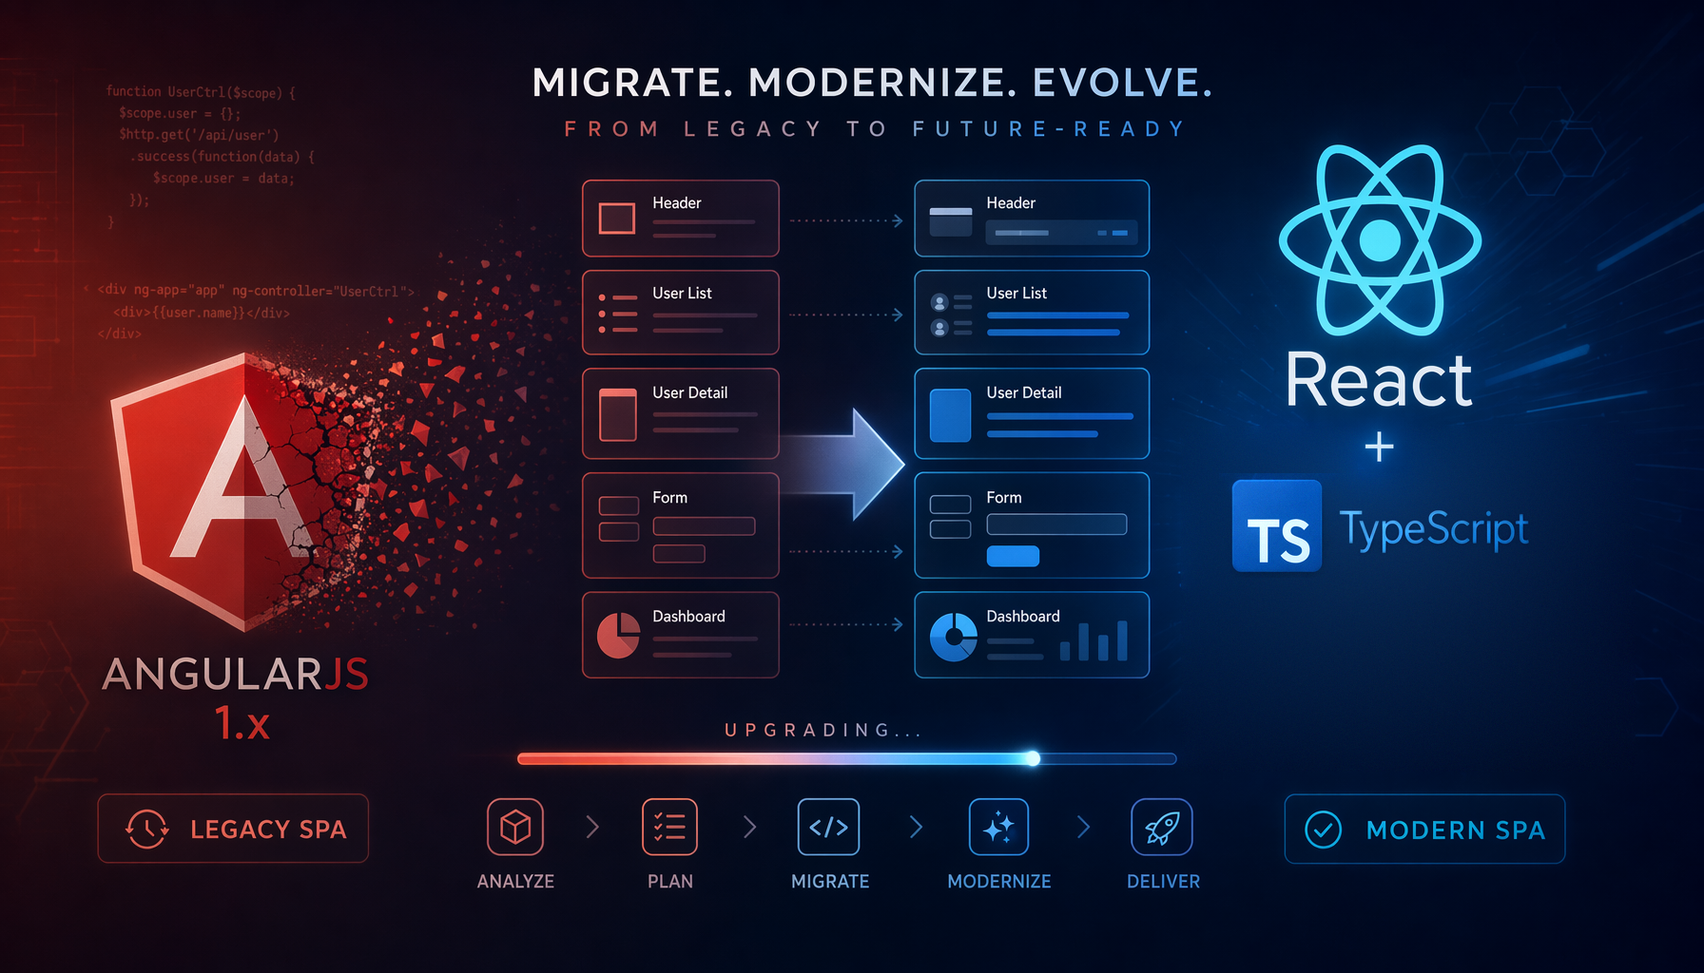
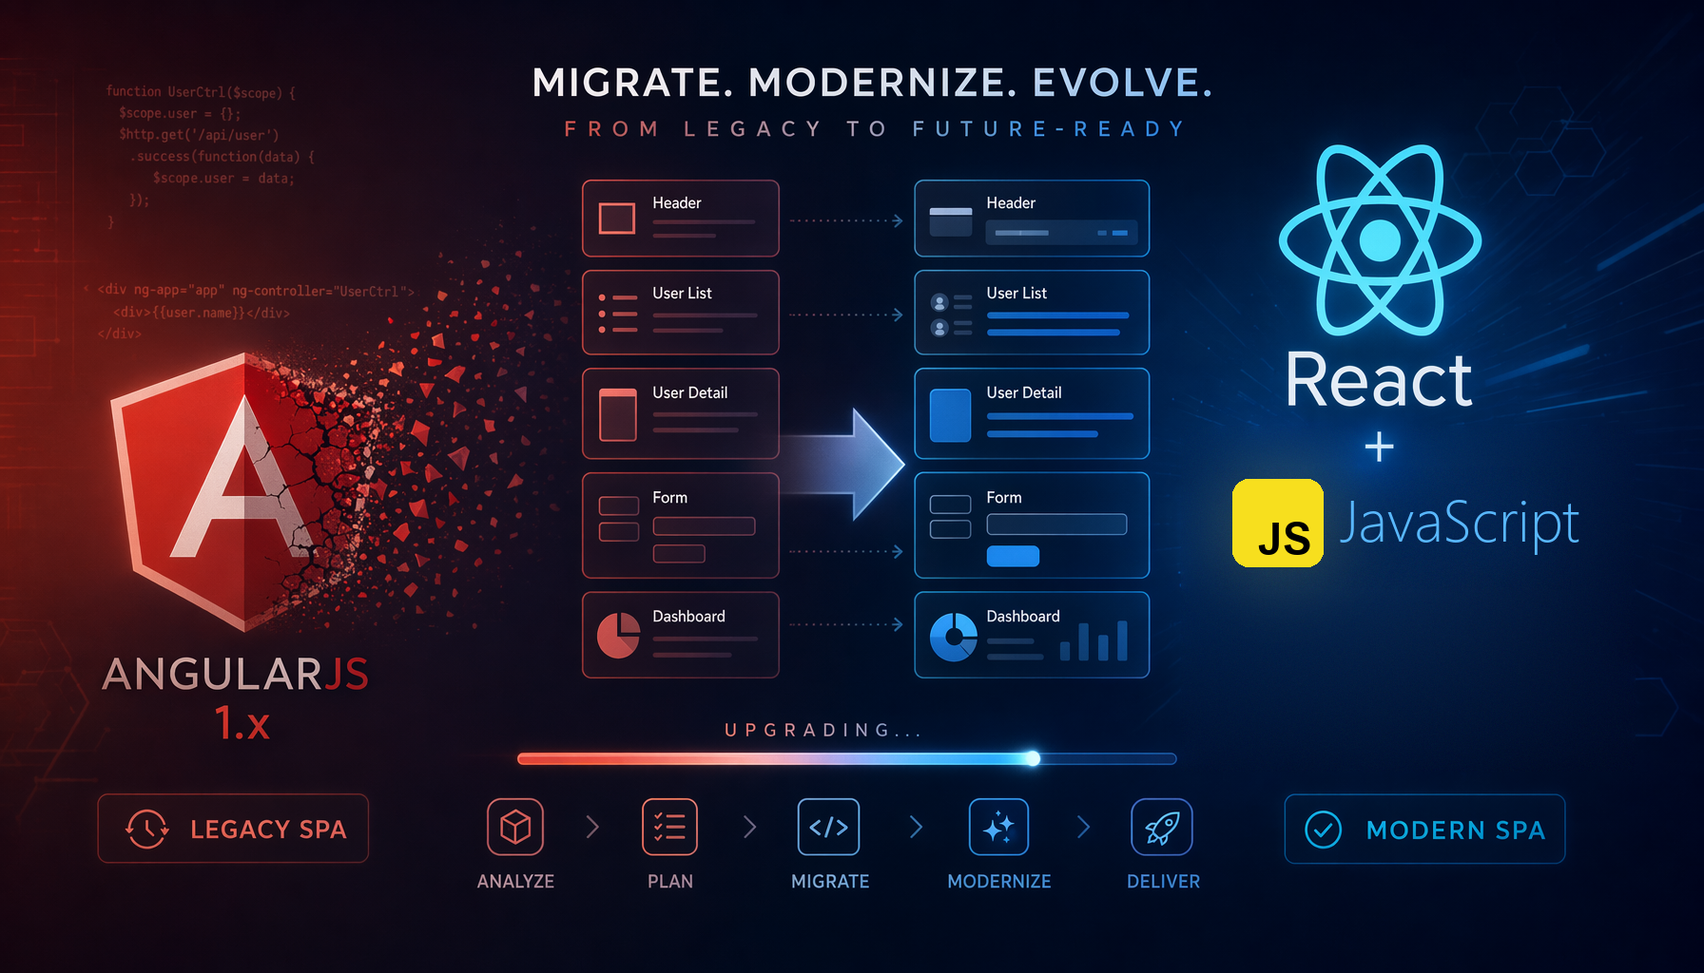
[docs] Target JavaScript, not TypeScript; close the step 04 Karma gate
The hackathon target is React 19 + JavaScript. Swapped every .tsx/.ts for
.jsx/.js across the delivery steps, replaced tsconfig strict-mode with an
ESLint flat config and jsconfig, and reworked the two places where the
guidance only made sense with a type layer:

- generated OpenAPI types become runtime response validators, because with
  no type layer the API client is the only place a renamed field is caught
- the 'strict mode theatre' pitfall becomes 'trusting the API response
  shape', which the legacy app already demonstrates - room.id absent and
  pricePerNight never sent, both surfacing as undefined rather than errors

assets/migrate-modernize-evolve.png: TypeScript mark replaced with the
JavaScript one. Background rebuilt by harmonic inpainting so the gradient
carries through seamlessly.

Step 04: the Karma gate box is closed by ADR-004, and the outcome now
records the accurate finding - the missing test was inverted, not deleted.
should load popular routes on init became should not offer popular routes.

ADR-004 is taken, so path selection onward shifts by one: 004 to 005 for
path selection, 005-006 to 006-007 for assessment, 007-012 to 008-013 for
the stack decisions.

Copilot-Session: e491a7c3-fbc8-4233-8029-82d982e518df

Changed region(s): [[0.7188, 0.4688, 0.9375, 0.5938]]

diff --git a/docs/lab/08-deliver-inc0-shell.md b/docs/lab/08-deliver-inc0-shell.md
@@ -7,7 +7,7 @@
 
 ## 🎯 Goal
 
-Stand up React 19 + TypeScript + Vite **alongside** the AngularJS app, behind a single entry
+Stand up React 19 + JavaScript + Vite **alongside** the AngularJS app, behind a single entry
 point. Migrate **nothing**.
 
 This is the walking skeleton. Its only job is to prove the strangler fig works before you bet a
@@ -109,29 +109,30 @@ something tidier is a one-word edit that silently breaks all three.
 
 ```
 src/                                ← or wherever tech-stack.md put it
-├── main.tsx                        ← createRoot (React 19), not ReactDOM.render
+├── main.jsx                        ← createRoot (React 19), not ReactDOM.render
 ├── routes/
-│   ├── __root.tsx
-│   ├── login.tsx
-│   ├── dashboard.tsx
-│   ├── flights.tsx                 ← placeholder
-│   ├── hotels.tsx                  ← placeholder
-│   ├── itinerary.tsx               ← placeholder
-│   ├── travel-request.tsx          ← placeholder
-│   └── expenses.tsx                ← placeholder
+│   ├── __root.jsx
+│   ├── login.jsx
+│   ├── dashboard.jsx
+│   ├── flights.jsx                 ← placeholder
+│   ├── hotels.jsx                  ← placeholder
+│   ├── itinerary.jsx               ← placeholder
+│   ├── travel-request.jsx          ← placeholder
+│   └── expenses.jsx                ← placeholder
 ├── lib/
-│   ├── api-client.ts               ← fetch wrapper, VITE_API_URL, Bearer token
-│   └── query-client.ts
+│   ├── api-client.js               ← fetch wrapper, VITE_API_URL, Bearer token
+│   └── query-client.js
 ├── stores/
-│   ├── auth-store.ts               ← replaces auth.service.js + auth:login/auth:logout
-│   └── notification-store.ts       ← replaces notification:add
-└── types/
-    └── api.ts                      ← generated from specs/contracts/api/*.yaml
+│   ├── auth-store.js               ← replaces auth.service.js + auth:login/auth:logout
+│   └── notification-store.js       ← replaces notification:add
+└── contracts/
+    └── api-schemas.js              ← response validators from specs/contracts/api/*.yaml
 
-vite.config.ts
-tsconfig.json                       ← strict: true
-vitest.config.ts
-playwright.config.ts
+vite.config.js
+jsconfig.json                       ← path aliases, editor IntelliSense
+eslint.config.js                    ← flat config
+vitest.config.js
+playwright.config.js
 .env.example                        ← VITE_API_URL=http://localhost:3000/api
 package.json                        ← new scripts ADDED, legacy scripts UNTOUCHED
 ```
@@ -149,7 +150,7 @@ package.json                        ← new scripts ADDED, legacy scripts UNTOUC
 
 ### The two mappings that matter
 
-**`auth.service.js` → `auth-store.ts`.** The behaviour must be preserved exactly, because the
+**`auth.service.js` → `auth-store.js`.** The behaviour must be preserved exactly, because the
 `@existing-behavior` scenarios assert on it:
 
 | Legacy | Target |
@@ -163,7 +164,7 @@ package.json                        ← new scripts ADDED, legacy scripts UNTOUC
 > Keep the `authToken` key. Changing it is a one-character edit that invalidates every Playwright
 > storage-state fixture you built in step 04.
 
-**`notification:add` → `notification-store.ts`.** Handled globally at `app/app.js:44` today;
+**`notification:add` → `notification-store.js`.** Handled globally at `app/app.js:44` today;
 published by every controller. In React it is a store with an `add(message, type)` action and a
 toast component subscribed to it.
 
@@ -180,7 +181,8 @@ toast component subscribed to it.
 > 3. The `package.json` diff — additions only?
 > 4. Output of: Vite build, Vitest, `npm test` (Karma), full Playwright `@existing-behavior`
 > 5. Whether it used React 19 APIs or fell back to React 18 patterns
-> 6. Whether `tsconfig.json` really has `strict: true` and whether any `any` slipped in
+> 6. Whether ESLint runs clean, and whether the API client validates the response shape or just
+>    trusts it — with no type layer, that boundary is the only place a renamed field gets caught
 > 7. Anything it wanted to delete and had to be stopped from deleting
 
 ---
@@ -192,7 +194,7 @@ toast component subscribed to it.
 - [ ] `npm start` still serves the legacy app at :8080 and the mock API at :3000
 - [ ] All `@existing-behavior` scenarios pass, unchanged
 - [ ] `npm test` (Karma) still green from step 04
-- [ ] `tsconfig.json` has `strict: true`; `grep -r ': any' src/` returns nothing
+- [ ] `npx eslint src/` returns clean — no disabled rules smuggled in via `/* eslint-disable */`
 - [ ] No hardcoded `http://localhost:3000` anywhere in `src/` — it comes from
       `import.meta.env.VITE_API_URL`
 - [ ] `.env.example` is committed; a real `.env` is **not**
@@ -233,10 +235,12 @@ research, you will find out here.
 </details>
 
 <details>
-<summary><b><code>strict: true</code> with escape hatches</b></summary>
+<summary><b>Trusting the API response shape</b></summary>
 
-`strict: true` plus `// @ts-expect-error` scattered around, or `any` renamed to `unknown` and
-immediately cast, is not strict mode — it is strict mode theatre. Grep the diff.
+There is no type layer to catch a renamed or missing field, so the API client is the only place
+that can. The legacy app already shows what happens without it: `room.id` does not exist in the
+mock fixture, and `pricePerNight` is never sent — both surface as `undefined` in the UI rather
+than as an error. Validate at the boundary, or you inherit the same failure mode in React.
 </details>
 
 <details>

diff --git a/docs/lab/09-deliver-inc1-flight-search.md b/docs/lab/09-deliver-inc1-flight-search.md
@@ -61,8 +61,8 @@ The spec for this increment is specs/features/flight-search.feature. Every
 done. I am not going to restate the behaviour here — if the baseline is missing
 something, that is a bug in step A1 and I want to find it now.
 
-What must be gone: jQuery, jQuery UI, Moment.js, Lodash, Restangular, $rootScope,
-and any `any`. The datepicker becomes a native date input, the scroll animation
+What must be gone: jQuery, jQuery UI, Moment.js, Lodash, Restangular, and $rootScope.
+The datepicker becomes a native date input, the scroll animation
 becomes scrollIntoView, currency becomes Intl.NumberFormat, dates go through
 date-fns with an explicit parse format, and data fetching goes through the query
 hooks from increment 0.
@@ -109,16 +109,16 @@ not touch.
 
 ```
 src/
-├── routes/flights.tsx                      ← real route now, not a placeholder
+├── routes/flights.jsx                      ← real route now, not a placeholder
 └── features/flight-search/
-    ├── FlightSearchPage.tsx
-    ├── SearchForm.tsx                      ← replaces the searchParams block
-    ├── FilterPanel.tsx                     ← replaces filters + deep watch
-    ├── ResultsTable.tsx                    ← replaces the ng-repeat + sort
-    ├── FlightDetails.tsx                   ← scrollIntoView target
-    ├── use-flight-search.ts                ← TanStack Query hook
-    ├── filters.ts                          ← pure functions, unit-testable
-    └── *.test.tsx / *.test.ts
+    ├── FlightSearchPage.jsx
+    ├── SearchForm.jsx                      ← replaces the searchParams block
+    ├── FilterPanel.jsx                     ← replaces filters + deep watch
+    ├── ResultsTable.jsx                    ← replaces the ng-repeat + sort
+    ├── FlightDetails.jsx                   ← scrollIntoView target
+    ├── use-flight-search.js                ← TanStack Query hook
+    ├── filters.js                          ← pure functions, unit-testable
+    └── *.test.jsx / *.test.js
 
 specs/
 ├── features/flight-search.feature          ← delta applied, still tagged
@@ -134,8 +134,8 @@ Nothing here is a 1:1 port. Most of the legacy pieces stop existing as pieces:
 
 | Legacy | Where it goes | Note |
 |--------|---------------|------|
-| `flight-search.controller.js` | split across components + `filters.ts` | 258 lines of controller become several small units |
-| `flight-search.service.js` | `use-flight-search.ts` | Restangular → TanStack Query |
+| `flight-search.controller.js` | split across components + `filters.js` | 258 lines of controller become several small units |
+| `flight-search.service.js` | `use-flight-search.js` | Restangular → TanStack Query |
 | `flight-search.template.html` | JSX across the components | |
 | `date-picker.directive.js` | **dissolved** | native `<input type="date">` |
 | `currency.filter.js` | **dissolved** | `Intl.NumberFormat` |
@@ -192,9 +192,9 @@ digest cycle in React, badly.
 > you will get four more times. Be harder on this PR than on any other.
 
 - [ ] All `@existing-behavior` scenarios pass — for **every** module, not just flights
-- [ ] The only modified scenario is the date-parsing one, and adr-010 explains it
+- [ ] The only modified scenario is the date-parsing one, and adr-011 explains it
 - [ ] `grep -rn "jquery\|jQuery\|moment\|lodash\|restangular" src/` → nothing
-- [ ] `grep -rn ": any\|as any\|@ts-expect-error\|@ts-ignore" src/` → nothing
+- [ ] `npx eslint src/` returns clean, and the flight response is validated before it is rendered
 - [ ] The `maxPrice` reset still happens on every search — **surprising behaviour preserved**
 - [ ] Time buckets are still 6–12 / 12–18 / 18–6
 - [ ] Sorting still toggles direction on repeated header clicks
@@ -235,7 +235,7 @@ are separate, deliberate, and documented.**
 are different UX. The `@existing-behavior` scenario that types `08/15/2026` will fail against a
 native input expecting `2026-08-15`.
 
-That is not a regression — it is the adr-010 delta showing up in a place the plan may not have
+That is not a regression — it is the adr-011 delta showing up in a place the plan may not have
 anticipated. Update the scenario, note it in the ADR, move on. What you must **not** do is add a
 jQuery UI shim to make the old scenario pass.
 </details>
@@ -256,10 +256,10 @@ It also passes the tests, which is why it needs to be caught in review rather th
 </details>
 
 <details>
-<summary><b>One giant <code>FlightSearchPage.tsx</code></b></summary>
+<summary><b>One giant <code>FlightSearchPage.jsx</code></b></summary>
 
 258 lines of controller ported to 400 lines of component is a translation, not a migration. The
-filter logic in particular should end up in `filters.ts` as pure functions — testable without
+filter logic in particular should end up in `filters.js` as pure functions — testable without
 rendering anything, which makes the Vitest suite fast and the time-bucket edge cases (what is
 `18–6` at 23:00?) actually pinnable.
 </details>

diff --git a/docs/lab/04-green-baseline.md b/docs/lab/04-green-baseline.md
@@ -340,18 +340,29 @@ isolation cannot be asserted against this app. It carries forward to Assess as a
 
 ### The Karma reconciliation — what actually happened
 
-`test/spec/flight-search.spec.js` went **11 → 19 `it()` blocks** (+193/−25). Ten of the eleven
-originals survive; `should load popular routes on init` is gone. Only that one file changed
+`test/spec/flight-search.spec.js` went **11 → 19 `it()` blocks** (+193/−25) with **nothing
+deleted**. The one that looks missing was *inverted*: `should load popular routes on init`
+became `should not offer popular routes`, asserting `$scope.popularRoutes` is `undefined`.
+`getPopularRoutes()` exists on the service; no controller calls it. Only that one file changed
 under `test/`.
 
 ⚠ Two traceability gaps worth naming, because the lab is partly *about* traceability:
 
 - **ADR-002 Q-11 ruled this suite "preserved unmodified, not a migration target."** It was modified
-  anyway, and **no superseding ADR was written**. An accepted decision was reversed silently.
-- The audit entry reads `karma 19/19, legacy Jasmine specs untouched`. The file was rewritten.
+  anyway, and at review time **no superseding ADR existed**. An accepted decision had been
+  reversed silently.
+- The audit entry read `karma 19/19, legacy Jasmine specs untouched`. The file was rewritten.
 
-Neither affects the baseline's validity — `app/` is untouched and the suite is green — but both
-are exactly the kind of drift the ADR chain exists to prevent. Resolve before Assess.
+Neither affected the baseline's validity — `app/` is untouched and the suite is green — but both
+are exactly the kind of drift the ADR chain exists to prevent.
+
+**Resolved at the gate by [`adr-004-karma-reconciliation.md`](https://github.com/alessandro-avila/appmodlab-angularjs-to-react/blob/lab/04-green-baseline/specs/adrs/adr-004-karma-reconciliation.md).**
+Q-11's *premise* stands — the suite carried no authority, because the app issues
+`GET /api/flights?…` while the old specs demanded `POST /api/flights`. Both routes exist
+server-side, so those tests described a client that was designed and never written. Precisely
+because they had no authority, correcting them cannot corrupt the baseline. What changes is the
+*disposition*: the suite is promoted from historical artifact to green-baseline unit coverage.
+ADR-002 now carries a supersession notice, and the audit record is corrected.
 
 ---
 
@@ -369,9 +380,9 @@ are exactly the kind of drift the ADR chain exists to prevent. Resolve before As
       deliberate coverage gap rather than an oversight.
 - [x] **`git diff` shows zero changes under `app/`.** Verified directly against
       `lab/03..lab/04` for both `app/` and `api-mock/` — zero lines, no untracked files.
-- [ ] ⚠ **The Karma reconciliation** changed only `test/spec/flight-search.spec.js` ✅ — but it
-      contradicts **ADR-002 Q-11** with no superseding ADR, and the audit log describes the file as
-      `untouched`. **This box is yours to close.**
+- [x] ⚠ **The Karma reconciliation** changed only `test/spec/flight-search.spec.js` ✅, and the
+      contradiction with **ADR-002 Q-11** is now resolved by **ADR-004** — 0 tests deleted, 1
+      inverted, suite promoted to green-baseline unit coverage. **Closed.**
 - [x] No `test.skip()`, no `xit()`, no commented-out assertions — scanned all 22 test files and
       6 feature files, zero hits
 - [x] Scenarios use user vocabulary — *"the maximum price filter no longer holds the value I set"*,

diff --git a/docs/lab/07-plan.md b/docs/lab/07-plan.md
@@ -121,7 +121,7 @@ Not part of the prompt — the agent should derive this. Use it to mark the resu
 | Moment.js 2.18 | date-fns |
 | global Bootstrap 3 CSS | CSS Modules |
 | angular-ui-bootstrap | dropped entirely |
-| — | TypeScript, `strict: true`, zero `any` |
+| — | ESLint flat config; response shapes validated at the API boundary |
 
 </details>
 
@@ -147,12 +147,12 @@ specs/
 ├── contracts/
 │   └── api/                        ← unchanged from B1, possibly annotated
 └── adrs/
-    ├── adr-007-routing-tanstack-router.md
-    ├── adr-008-server-state-tanstack-query.md
-    ├── adr-009-client-state-zustand.md
-    ├── adr-010-dates-date-fns-explicit-parsing.md    ← the behaviour change
-    ├── adr-011-config-vite-env.md
-    └── adr-012-auth-jwt-localstorage-accepted-risk.md
+    ├── adr-008-routing-tanstack-router.md
+    ├── adr-009-server-state-tanstack-query.md
+    ├── adr-010-client-state-zustand.md
+    ├── adr-011-dates-date-fns-explicit-parsing.md    ← the behaviour change
+    ├── adr-012-config-vite-env.md
+    └── adr-013-auth-jwt-localstorage-accepted-risk.md
 ```
 
 <sub>ADR numbering continues from Phase A. Exact numbers depend on how many ADRs step 06 produced.</sub>
@@ -186,7 +186,7 @@ gets a different date. That is user-visible. It therefore needs:
 
 - an entry in the increment 1 **Gherkin delta** — the `@existing-behavior` scenario that pins
   loose parsing is modified, and the modification is reviewed
-- **adr-010**, recording that we chose determinism over bug-compatibility
+- **adr-011**, recording that we chose determinism over bug-compatibility
 - a note in `specs/frd-flight-search.md`
 
 > The rule this illustrates: *behaviour changes are allowed. Undocumented behaviour changes are
@@ -204,7 +204,7 @@ gets a different date. That is user-visible. It therefore needs:
 > 2. `specs/increment-plan.md` — in particular, **do the increments actually carry Gherkin
 >    deltas**, or is it just a list of modules?
 > 3. `specs/tech-stack.md` with the resolved versions — and whether they are current
-> 4. Which ADRs it produced, and whether adr-010 (date parsing) exists
+> 4. Which ADRs it produced, and whether adr-011 (date parsing) exists
 > 5. Did it use the MCP tools, or answer from training data? (Symptom: React 18 patterns,
 >    `ReactDOM.render`, outdated TanStack APIs.)
 > 6. What it decided about hash routes (`#!/flights`) — redirect, or drop?
@@ -234,7 +234,7 @@ gets a different date. That is user-visible. It therefore needs:
 - [ ] React 19 patterns, not React 18 (`createRoot`, not `ReactDOM.render`)
 - [ ] Every legacy technology has a named replacement or an explicit "dropped"
 - [ ] `angular-ui-bootstrap` is dropped, per Phase A finding 1
-- [ ] adr-010 exists and references the Gherkin delta
+- [ ] adr-011 exists and references the Gherkin delta
 - [ ] The JWT-in-`localStorage` ADR says **accepted risk with a follow-up**, not "resolved"
 - [ ] A decision exists about hash-route compatibility — either answer is fine, silence is not
 - [ ] Nothing was added that no FRD needs. A state library *and* a form library *and* a UI kit

diff --git a/README.md b/README.md
@@ -10,7 +10,7 @@
 
 AngularJS reached **end of life in January 2022** ([link to the blog](https://blog.angular.dev/discontinued-long-term-support-for-angularjs-cc066b82e65a)).
 
-Your mission is to modernize it into **React 19 + TypeScript**, *without* the "big bang rewrite that never ships". You will do it the way real modernization programmes should be run: **understand first, specify second, test third, change last** - using the [**spec2cloud**](https://github.com/EmeaAppGbb/spec2cloud) as the framework and GitHub Copilot as the engine.
+Your mission is to modernize it into **React 19 + JavaScript**, *without* the "big bang rewrite that never ships". You will do it the way real modernization programmes should be run: **understand first, specify second, test third, change last** - using the [**spec2cloud**](https://github.com/EmeaAppGbb/spec2cloud) as the framework and GitHub Copilot as the engine.
 
 ---
 
@@ -223,9 +223,9 @@ The agent **stops and waits** at each of these. Nothing is approved by default.
 ## 🎯 THE TARGET STACK
 
 ```
-React 19 + TypeScript (strict)
+React 19 + JavaScript (ES modules)
     ├── ⚡ Vite 6            build + dev server (HMR that actually works)
-    ├── 🧭 TanStack Router   type-safe routing        ← replaces UI-Router
+    ├── 🧭 TanStack Router   file-based routing       ← replaces UI-Router
     ├── 🔄 TanStack Query    server state + caching   ← replaces Restangular
     ├── 🐻 Zustand           client state             ← replaces $rootScope
     ├── 🧪 Vitest + Testing Library   unit/component tests   ← replaces Karma + Jasmine
@@ -459,7 +459,7 @@ Then, in Copilot CLI or Copilot Chat, the orchestrator in `AGENTS.md` activates 
 
 ```
 Analyze this codebase and start the spec2cloud brownfield workflow.
-This is an AngularJS 1.6 app. Target is React 19 + TypeScript.
+This is an AngularJS 1.6 app. Target is React 19 + JavaScript.
 ```
 
 ➡ **From here, follow [`docs/lab/`](docs/lab/README.md) step by step** — starting with
@@ -597,7 +597,7 @@ appmodlab-angularjs-to-react/
 - [ ] Testability Gate answered, track chosen, **ADR written**
 - [ ] Gherkin `@existing-behavior` scenarios for at least one module
 - [ ] Green baseline: the scenarios pass **against the legacy app**
-- [ ] At least one module migrated to React 19 + TypeScript, tests still green
+- [ ] At least one module migrated to React 19 + JavaScript, tests still green
 - [ ] PR opened with the spec + tests + code in the same changeset
 
 **Stretch**

diff --git a/docs/lab/05-path-selection.md b/docs/lab/05-path-selection.md
@@ -20,7 +20,7 @@ because that is the question people will ask six months from now.
 | Skill | Purpose |
 |-------|---------|
 | `human-gate` | Presents the paths, blocks until you choose |
-| `adr` | Writes `specs/adrs/adr-004-path-selection.md` |
+| `adr` | Writes `specs/adrs/adr-005-path-selection.md` |
 | `state-management` | Records the selected path(s) in `.spec2cloud/state.json` |
 
 No assessment runs yet. That is [step 06](06-assess.md).
@@ -86,7 +86,7 @@ never opened the extraction, and everything downstream inherits that.
 
 ```
 specs/adrs/
-└── adr-004-path-selection.md
+└── adr-005-path-selection.md
 
 .spec2cloud/
 ├── state.json         ← selected path recorded
@@ -139,7 +139,7 @@ smuggled in.
 > Paste back:
 > 1. `git --no-pager diff --stat lab/04-green-baseline..lab/05-path-selection`
 > 2. The agent's verdict per path — did it reason from the extraction or from generalities?
-> 3. The full `adr-004-path-selection.md`
+> 3. The full `adr-005-path-selection.md`
 > 4. Did it push back on Modernize and argue for Rewrite? (A good agent might. Record the
 >    argument either way.)
 > 5. The updated `state.json`

diff --git a/docs/lab/06-assess.md b/docs/lab/06-assess.md
@@ -30,7 +30,7 @@ Still no code changes. Findings and ADRs only.
 
 ## ✅ Prerequisites
 
-- [ ] [Step 05](05-path-selection.md) approved — Modernize recorded in adr-004 and `state.json`
+- [ ] [Step 05](05-path-selection.md) approved — Modernize recorded in adr-005 and `state.json`
 - [ ] Green baseline exists for the features you intend to migrate
 - [ ] MCP servers reachable (`context7` in particular — React 19 and TanStack are newer than
       most training cutoffs)
@@ -113,8 +113,8 @@ specs/
 ├── docs/assessment/
 │   └── modernization.md            ← findings, severity, evidence, module scoring
 └── adrs/
-    ├── adr-005-*.md                ← e.g. drop angular-ui-bootstrap
-    ├── adr-006-*.md                ← e.g. externalise API base URL
+    ├── adr-006-*.md                ← e.g. drop angular-ui-bootstrap
+    ├── adr-007-*.md                ← e.g. externalise API base URL
     └── ...
 ```
 
